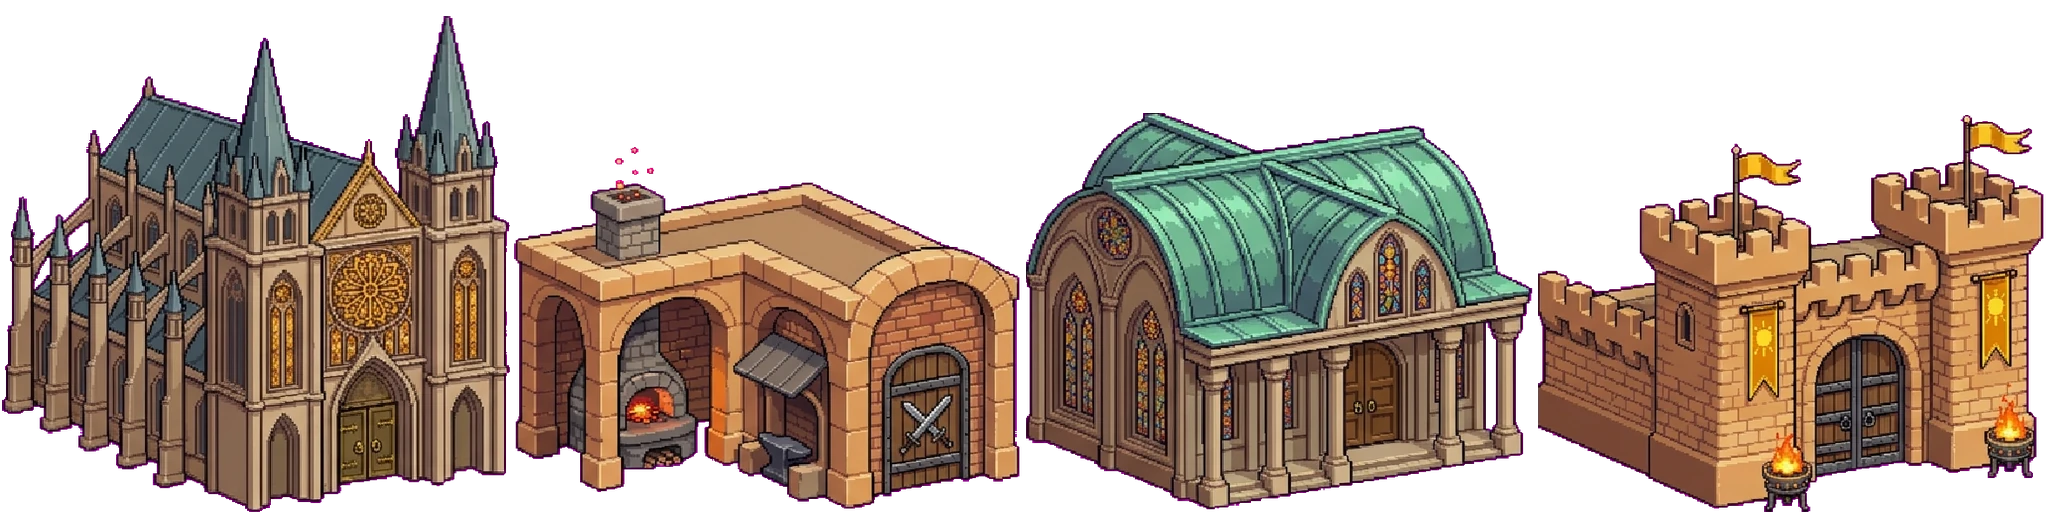
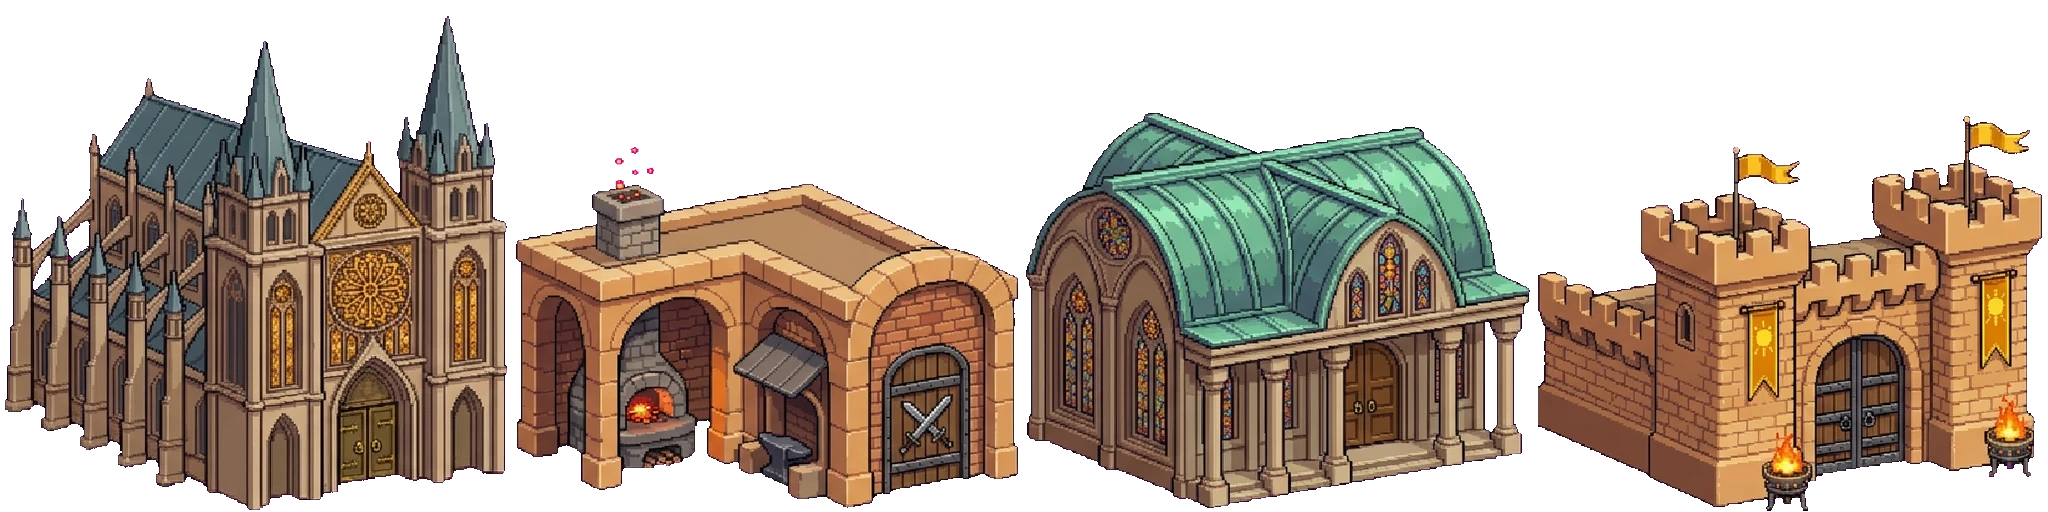
R22 (D68): ogni palazzo dei villaggi poggia sul proprio terreno, via i riquadri neri
- Lotto lastricato con la pietra di fondazione del distretto, cordolo rialzato, soglia davanti alla porta
- Edificio centrato sulla porta; secondo edificio della stessa famiglia nei lotti larghi; arredo nel retro
- Strade accanto a un lotto con ombra di contatto invece del bordo da muro
- Bordo magenta tolto dai 16 edifici dipinti (derivato rigenerato con alfa premoltiplicato)
- Strumento che disegna i 14 villaggi interi, test dei lotti (92 edifici), immagini prima e dopo
- versionCode 32

Claude-Session: https://claude.ai/code/session_01VPEbu5Ej8CzeyRm924xBAW

diff --git a/tools/derive_argon_case_20261113.py b/tools/derive_argon_case_20261113.py
@@ -1,5 +1,5 @@
 #!/usr/bin/env python3
-"""R21: gli edifici dipinti di Argon (gruppo T del giro 2 e P0 del giro «150 minuti») diventano le case dei villaggi.
+"""R21-R22: gli edifici dipinti di Argon (gruppo T del giro 2 e P0 del giro «150 minuti») diventano le case dei villaggi.
 
 Originali (mai modificati): deliveries/argon-asset-giro2-20261110/T/palazzi_{moon,toxic,clockwork}.png e
 deliveries/argon-150min-20261112/P0/palazzi_cattedrale_v2.png (il foglio v1 lasciava vedere il magenta nel portone).
@@ -35,12 +35,20 @@ def cut(path):
         r,g,b=px[:,:,0].astype(int),px[:,:,1].astype(int),px[:,:,2].astype(int);rim=(r>150)&(b>150)&(g<r*.62)&(g<b*.62);px[rim,3]=0
         out.append(Image.fromarray(px,'RGBA'))
     return out
+def defringe(im):
+    px=np.asarray(im).copy();r,g,b,al=[px[:,:,i].astype(int) for i in range(4)]
+    for _ in range(4):
+        solid=al>24;pad=np.pad(solid,1);edge=solid&~(pad[:-2,1:-1]&pad[2:,1:-1]&pad[1:-1,:-2]&pad[1:-1,2:])
+        pink=(abs(r-b)<48)&(np.minimum(r,b)>g*1.6+24);kill=edge&pink;al[kill]=0
+    faint=al<=24;al[faint]=0;px[:,:,3]=al.astype('uint8');return Image.fromarray(px,'RGBA')
 def main():
     base=Path(sys.argv[1])/'deliveries';sha=lambda p:hashlib.sha256(Path(p).read_bytes()).hexdigest();reg=[];sizes={}
     for vid,rel in SRC.items():
         sheet=Image.new('RGBA',(CELL*4,CELL),(0,0,0,0));sizes[vid]=[]
         for i,im in enumerate(cut(base/rel)):
-            k=min((CELL-4)/im.width,(CELL-4)/im.height,1.0);w,h=round(im.width*k),round(im.height*k);im=im.resize((w,h),Image.LANCZOS)
+            # R22: scaled with premultiplied alpha, so the transparent magenta never bleeds into the outline, then what is
+            # still magenta within four pixels of the edge (red and blue alike, green far below) goes transparent.
+            k=min((CELL-4)/im.width,(CELL-4)/im.height,1.0);w,h=round(im.width*k),round(im.height*k);im=defringe(im.convert('RGBa').resize((w,h),Image.LANCZOS).convert('RGBA'))
             sheet.alpha_composite(im,(i*CELL+(CELL-w)//2,CELL-h));sizes[vid].append([w,h])
         dest=ROOT/('game/art/v10/case_%s.webp'%vid);sheet.save(dest,'WEBP',quality=90,method=6)
         reg.append({'id':'case_'+vid,'originale':'deliveries/'+rel,'sha256_originale':sha(base/rel),'derivato':'game/art/v10/case_%s.webp'%vid,'sha256_derivato':sha(dest),'byte':dest.stat().st_size,'operazione':'quattro edifici ritagliati per componenti connesse, fondo magenta trasparente, celle 512x512 appoggiate in basso'})

diff --git a/docs/gold/DECISIONI.md b/docs/gold/DECISIONI.md
@@ -88,3 +88,4 @@ Le tre scelte condizionali restano tracciate nel piano V10.2 e nella matrice; qu
 | D65 | Il gioco va completato fino alla durata concordata; gli asset che mancano si chiedono ad Argon, non si improvvisano | Parole dell'autore (12 novembre 2026): «fammi tutto il gioco completo, assicurati che duri come ci siamo detti. E se non ci sono abbastanza asset per coprire l'intera durata del gioco, mandami prompt per Argon, che ti genera gli asset. Se no, se tu riesci a generarli per conto tuo, fallo, ma se vuoi cose fatte bene, le facciamo fare ad Argon». Approva il piano di `NARRATIVA_V10_3_DUE_ORE.md` (cinque tappe nuove, missioni più lunghe, collegamenti) e supera il «nessuna funzione nuova» di D58. Obiettivo corretto dall'autore («Rimandami il piano durata, deve essere di 150 minuti circa»): **circa 150 minuti**, non più 105–120. [SIMULAZIONE] oggi la campagna è stimata a circa 42 minuti. Piano e ordine: `docs/gold/PIANO_DURATA_R20.md`. Richiesta ad Argon: `requests/argon-durata-due-ore-20261112/README.md` (40 immagini, 26 suoni). Le immagini non si generano in proprio: il giro 1 a figure geometriche è già stato rifiutato. Primo passo fatto (R20-a): i testi inglesi escono da `app.js` in `en.js`, la guardia di 458 752 byte resta. |
 | D66 | Con la consegna di Argon si costruiscono subito le tappe; ciò che Argon non ha ancora fatto lo regge il codice; intro del giaguaro a comparse | Parole dell'autore (12 novembre 2026): «Non e riuscito a generare tutto argon lo farà al prossimo giro argina tu con il codice piuttosto per ora […] SVILUPPA» e «prima la scritta, Jaguars, Builds, Creators, poi la comparsa del giaguaro, inquadrata, centrata, e boom». Fatto (R20-c): 13 tappe nuove sulle mappe dipinte di Argon (campagna da 31 a 44 tappe), quattro boss nuovi (Bone Tyrant, Forge Behemoth, Shadow Reaper, Vega: i boss diventano 9, come D23), intro in tre tempi. **Retto dal codice, da sostituire quando Argon consegna:** le piante calpestabili sono stimate dall'immagine con una regola scritta (`tools/derive_argon_150_20261112.py`), non rilevate a mano; tre boss usano le strisce a 128 px già nel repo e non i fogli nuovi a 288 px; i boss nuovi usano il comportamento generico dei boss (nessuna mossa propria: il ritmo di Vega e i «colpi possibili» del Reaper non esistono ancora); musica e suoni sono quelli esistenti (Argon non ha un modello audio). Case dei villaggi: ancora quelle disegnate dal codice. Il token incollato in chat non è stato usato e va revocato. |
 | D67 | Il lavoro di Argon pubblicato sul ramo del gioco viene rivisto e integrato da Claude senza chiedere pareri; obiettivo Play Store fra tre giorni | Parole dell'autore (13 novembre 2026): «Il lavoro di Argon è tutto su GitHub», «non ti fermare finché non hai creato un gioco di successo. Non chiedere pareri a me», «tra 3 giorni lo pubblicherò su Play Store e dovrà essere rilascio commerciale sbloccato completamente». Fatto (R21): revisione riga per riga dei due commit di Argon (`b9eeec3`, `9563818`), che erano già sul ramo del gioco; tenuto ciò che regge alle prove, ripristinato ciò che cancellava, tolto ciò che era finto. Dettaglio in `docs/gold/CONSEGNA_ARGON_LOOP_ESITO.md`. **Lo sblocco del rilascio non è una scelta tecnica:** le quattro condizioni di `docs/gold/STUDIO/GO_NO_GO.md` (playtest con persone, prova su telefono, acquisto Play, firma) restano dell'autore e nessuna è chiusa; `COMMERCIAL_RELEASE` resta `BLOCKED` finché non lo sono. |
+| D68 | Nei villaggi ogni palazzo poggia sul proprio terreno, coerente con la mappa: niente riquadri neri né vuoti | Parole dell'autore (13 novembre 2026): «non ci devono essere vuoti, neri, tutto bilanciato e adattato» e «dove ci sono i palazzi non deve comparire un buco nero, ma dove sta il palazzo stesso deve comparire il suo terreno […] Nulla lasciato al caso. Dove ci sta il palazzo, deve avere il proprio terreno, coerente con la mappa». Fatto (R22): in tutti i 14 villaggi il lotto di ogni edificio è lastricato con la pietra di fondazione del suo distretto (`LOT_TILE` in `game/village-art.mjs`: lastre di pietra per Moon e Cattedrale, assito per il Bazar tossico, piastre d'ottone per l'Avamposto), ha un cordolo rialzato e una soglia davanti alla porta; il velo scuro e la cornice sono tolti. Un lotto molto più largo del suo edificio riceve un secondo edificio della stessa famiglia; un cortile sul retro più profondo di una casella riceve l'arredo di strada del villaggio. Tolto anche il bordo magenta attorno agli edifici (derivato rigenerato, originali intatti). Prova: `tests/village-lots-r22.test.mjs` (92 edifici: almeno il 70 % della larghezza del lotto è edificio), `tools/render_villages_r22.cjs`, immagini in `docs/evidence/r22/`. |

diff --git a/docs/gold/STATO.md b/docs/gold/STATO.md
@@ -1,3 +1,15 @@
+## R22 — Ogni palazzo sul proprio terreno: via i riquadri neri dai villaggi (D68, 13 novembre 2026)
+
+- **Riferimento.** D68. Immagini prima e dopo: `docs/evidence/r22/`.
+- **[MISURATO] Il difetto.** Sotto ogni edificio dipinto restava un riquadro scuro con cornice (`'#06101a66'` più `strokeRect` in `vDrawHouse`), e nell'Avamposto ad ingranaggi le torri occupavano un quarto del lotto: il resto era vuoto scuro.
+- **[FATTO] Terreno del lotto.** Ogni lotto è lastricato con la pietra di fondazione del suo distretto, diversa da strada e piazza, tinta con i colori del villaggio; cordolo rialzato, ombra di contatto, soglia davanti alla porta. Le strade accanto a un lotto ricevono un'ombra morbida invece del bordo da muro.
+- **[FATTO] Lotti pieni.** `lotPlan` centra l'edificio sulla porta; se il lotto avanza di almeno 1,4 caselle aggiunge un secondo edificio della stessa famiglia; un retro profondo riceve lampioni e casse del villaggio. [MISURATO] 92 edifici in 14 villaggi: l'edificio copre almeno il 78 % della larghezza del lotto.
+- **[FATTO] Bordo magenta tolto** dai 16 edifici: il derivato si scala con alfa premoltiplicato e perde il residuo del fondo (`tools/derive_argon_case_20261113.py`, registro aggiornato; originali intatti).
+- **[MISURATO]** `npm test` 427 su 427. `app.js` 449 635 byte (margine 9 117); `world.js` 33 585; `en.js` 135 273. Browser PASS [SIMULAZIONE]: `qa:hubs`, nemici in 13 luoghi, 14 villaggi disegnati per intero con `tools/render_villages_r22.cjs`.
+- **Controllato e già a posto.** Mappe di missione procedurali e dipinte: nessun riquadro nero; oltre il bordo della mappa la telecamera ripete la fascia esterna (`drawMapBackdrop`), non mostra nero.
+- **Aperto.** Terreni e oggetti di piazza dipinti da Argon non ancora consegnati: il lastricato viene dall'atlante d'ambiente già nel gioco. Musiche mai ascoltate e corte. Piante delle mappe stimate. Ponte di acquisto assente. Prestazioni su telefono non misurate. Durata: stima in corso.
+- **`COMMERCIAL_RELEASE = BLOCKED`:** 0 playtest su 5, nessuna prova su telefono registrata, acquisto Play non collegato, firma dell'autore mancante.
+
 ## R21 — Revisione e integrazione del lavoro di Argon; case dipinte nei villaggi; scatti di The Anchor (D67, 13 novembre 2026)
 
 - **Riferimento.** D67. Esito della revisione: `docs/gold/CONSEGNA_ARGON_LOOP_ESITO.md`.
